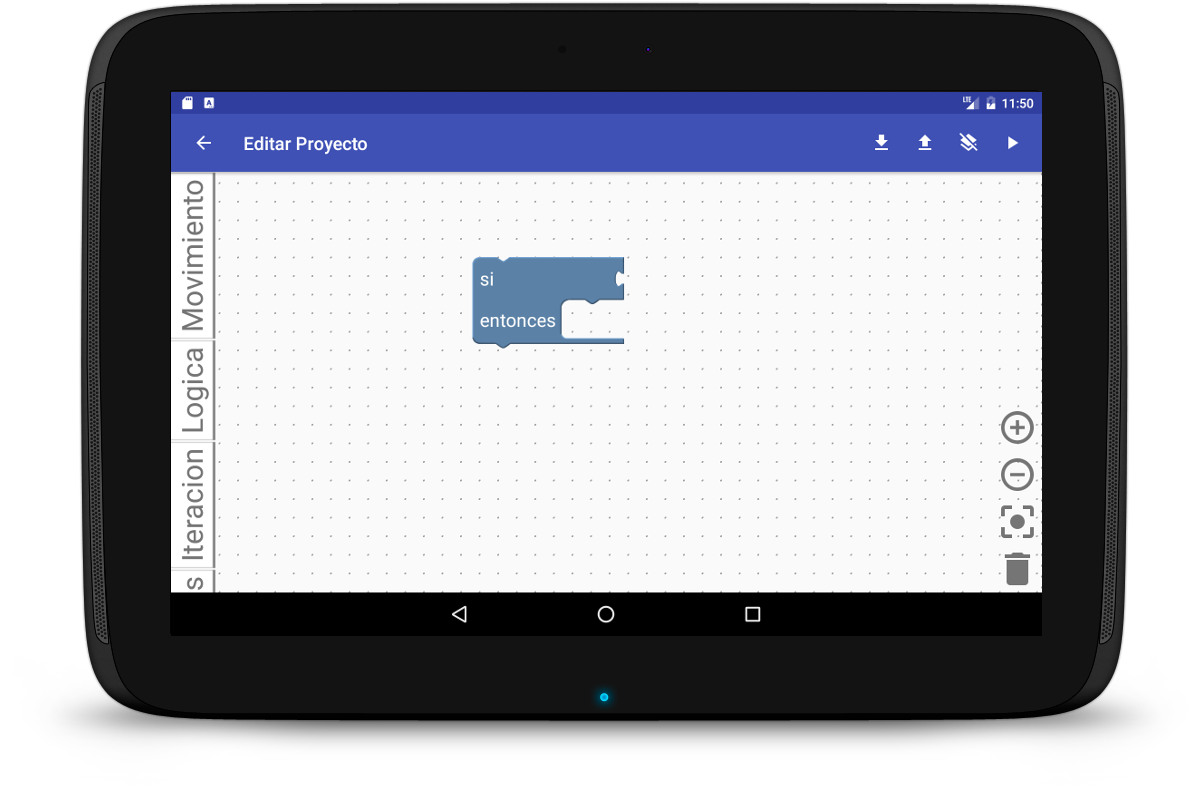
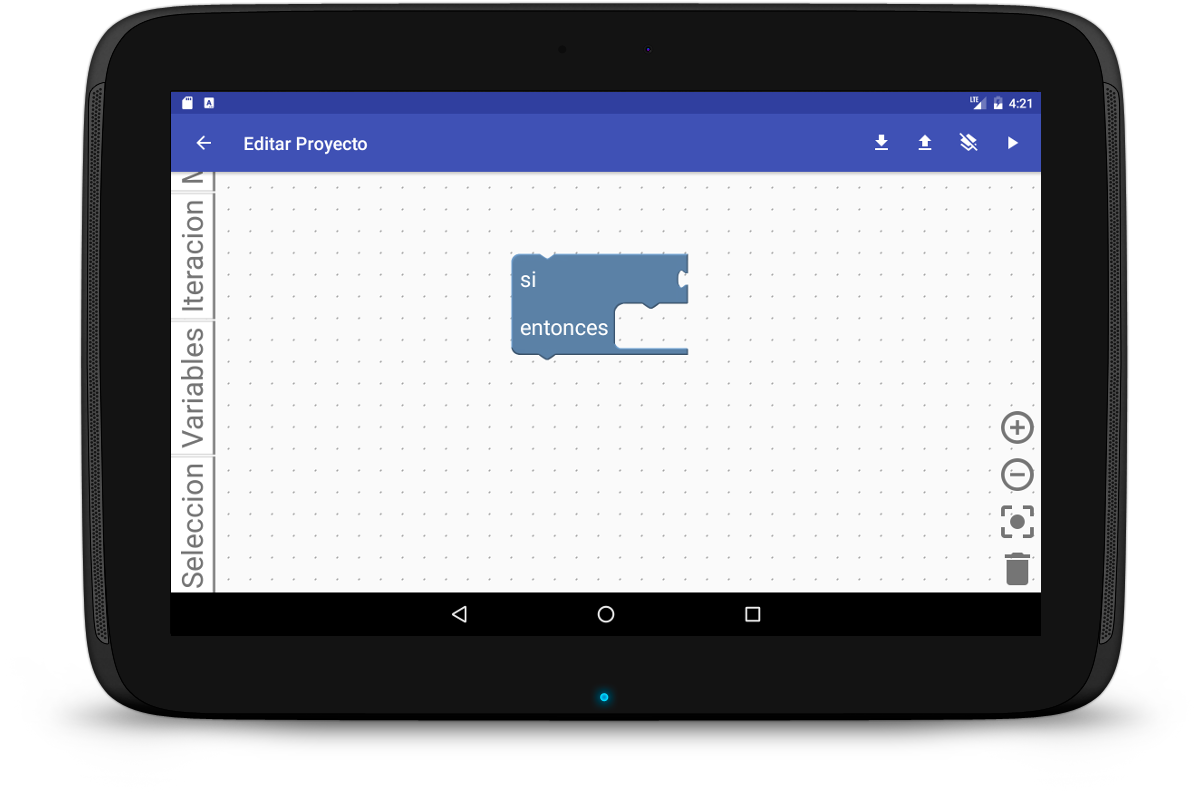
Actualizadas capturas seleccion y variables

Changed region(s): [[0.37, 0.3011, 0.5858, 0.4517], [0.1542, 0.2108, 0.185, 0.7528], [0.8017, 0.1205, 0.8633, 0.1506]]

diff --git a/seleccion.html b/seleccion.html
@@ -106,7 +106,7 @@
                     <br/> -->
                     Esto se logra utilizando el bloque <b>Si - Entonces</b>.
                     <br/>
-                    Para utilizarlo lo seleccionamos de la pestaña <b>Lógica</b> y lo arrastramos al área de trabajo:
+                    Para utilizarlo lo seleccionamos de la pestaña <b>Seleccion</b> y lo arrastramos al área de trabajo:
                     </p>
                 </div>
                 <div class="col-md-7">
@@ -155,7 +155,7 @@
                     <p style="padding: 0em 0em 2em 0em">
                         Luego debemos crear la <b>condicion</b> con la que el robot decidira, por ejemplo la condicion puede ser <b>item = 0</b>.
 
-                        Para lograr esto utilizamos el bloque de comparacion:
+                        Para lograr esto utilizamos el bloque de <b>comparacion</b> que se encuentra en la categoria Seleccion:
                     </p>
                 </div>
                 <div class="col-md-7">

diff --git a/variables.html b/variables.html
@@ -265,7 +265,7 @@
                     Este bloque nos permite realizar operaciones de suma, resta, multiplicacion y division entre dos numeros.
                     <br/>
                     <br/>
-                    Para utilizarlo debemos abrir la categoria Numeros:
+                    Para utilizarlo debemos abrir la categoria Variables:
                     </p>
                 </div>
                 <div class="col-md-7">
